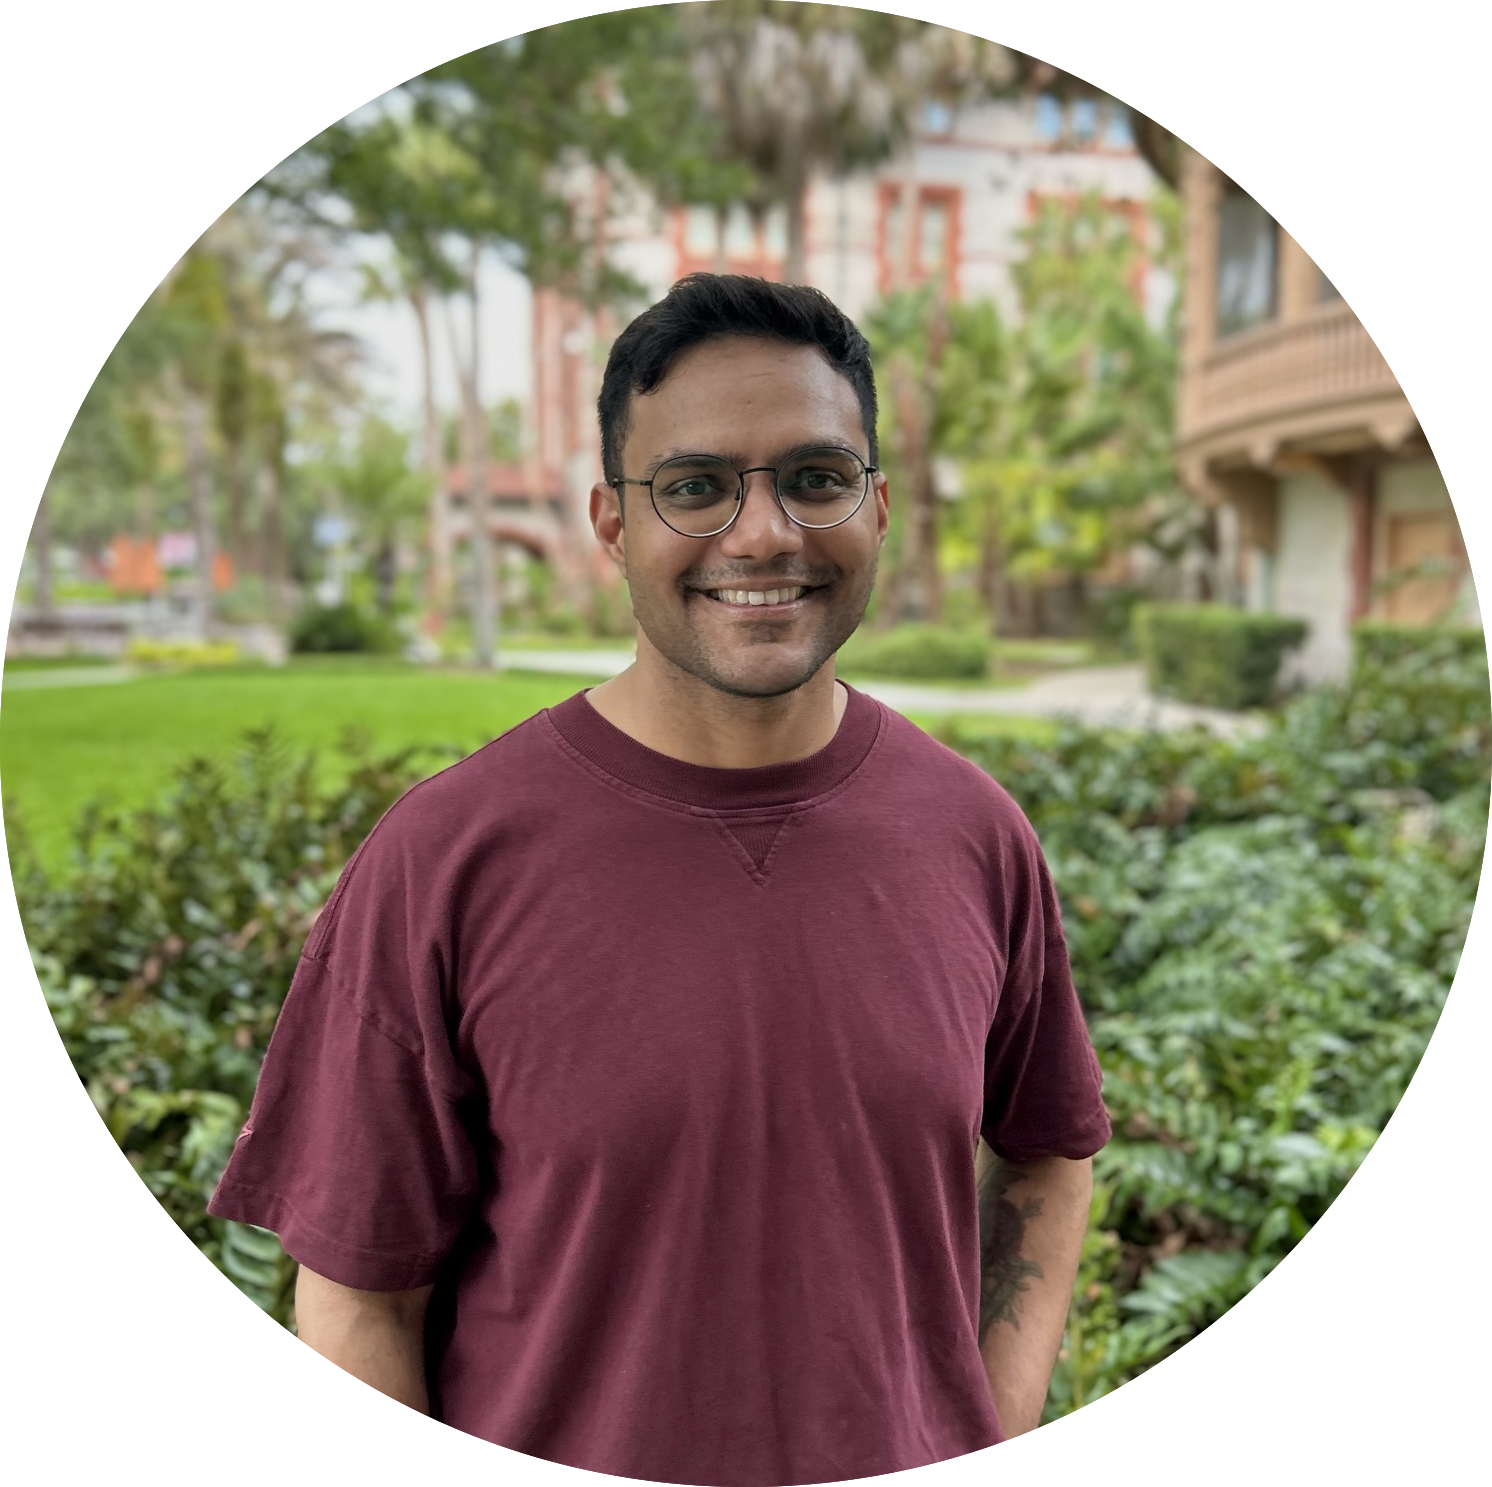
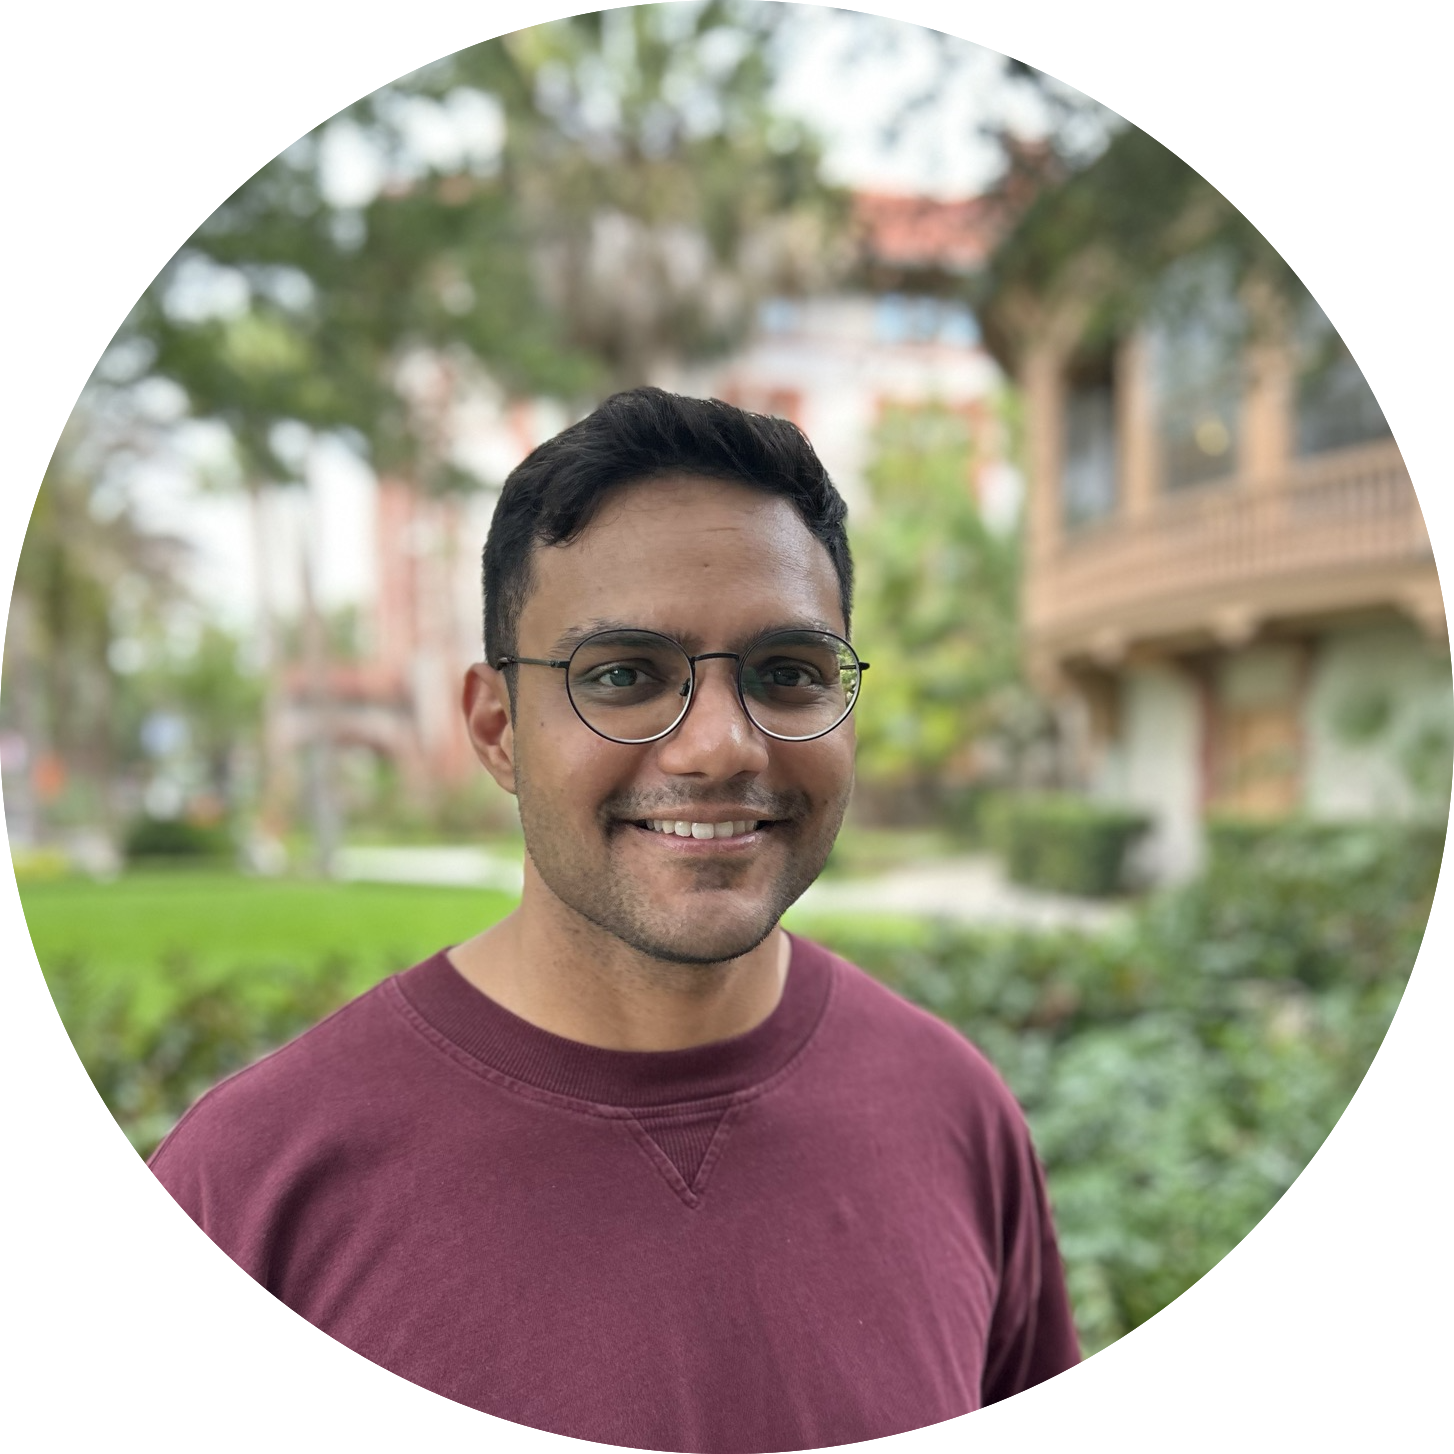
[+] new profile, added diss draft

diff --git a/research.html b/research.html
@@ -116,6 +116,7 @@
                     <span class="conference"><strong>Weighted Batched Threshold Encryption with Applications to Mempool Privacy</strong></span>
                     <br><small>A. Agarwal, K. Babel, S. Das, B.P. Gilkalaye, A. Mondal, B. Pinkas, P. Rindal, A. Yadav</small><br>
                     <small><abbr class="conf" title="47th IEEE Symposium on Security and Privacy">S&P '26</abbr>&nbsp;&nbsp;&nbsp;&nbsp;<span style="color:#6e77a5;">&diams;</span><span style="color:#bfc6eb;"> Distinguished paper award </span> <span style="color:#6e77a5;">&diams;</span>&nbsp;&nbsp;&nbsp;&nbsp;<a href="#" style="text-decoration: none; color:#6e77a5">[doi]</a>&nbsp;&nbsp;<a href="https://ia.cr/2025/2115" style="text-decoration: none; color:#6e77a5">[eprint]</a></small>
+                    &nbsp;&nbsp;&nbsp;&nbsp; <small>(also at <abbr class="conf" title="The Science of Blockchain Conference">SBC '26</abbr>)</small>
                 </li>
 
                 <br>
@@ -155,7 +156,7 @@
             <ol class="pubs-list" reversed="reversed" style="list-style-type:none;">
                 <li id="other-3">
                     <span class="other"><strong>Non-interactive Protocols for Blind Digital Signatures</strong></span>
-                    <br><small> Doctoral Dissertation &nbsp;&nbsp;&nbsp;&nbsp;<a href="#" style="text-decoration: none; color:#6e77a5">[doi]</a>&nbsp;&nbsp;<a href="#" style="text-decoration: none; color:#6e77a5">[pdf]</a></small>
+                    <br><small> Doctoral Dissertation &nbsp;&nbsp;&nbsp;&nbsp;<a href="#" style="text-decoration: none; color:#6e77a5">[doi]</a>&nbsp;&nbsp;<a href="./docs//ayadav-dissertation.pdf" style="text-decoration: none; color:#6e77a5">[pdf]</a></small>
                 </li>
             </ol>
             <br><hr><br>

diff --git a/resume.html b/resume.html
@@ -77,7 +77,7 @@
                 was fortunate to be advised by <a class="title" href="https://www.baldimtsi.com">Foteini Baldimtsi</a>. 
                 I also spent three wonderful years as a visiting fellow 
                 at the University of Wisconsin, Madison hosted by <a class="title" href="https://pages.cs.wisc.edu/~rishab/">Rishab Goyal</a>. 
-                During my PhD, I worked at <a class="title" href="https://www.mystenlabs.com">Mysten Labs</a>, 
+                During my PhD, I worked with the research teams at <a class="title" href="https://www.mystenlabs.com">Mysten Labs</a>, 
                 <a class="title" href="https://www.category.xyz">Category Labs</a> and the <a class="title" href="https://www.iog.io">Input Output Group</a>.
                 
                 I received my Master's degree in Computer Science from 